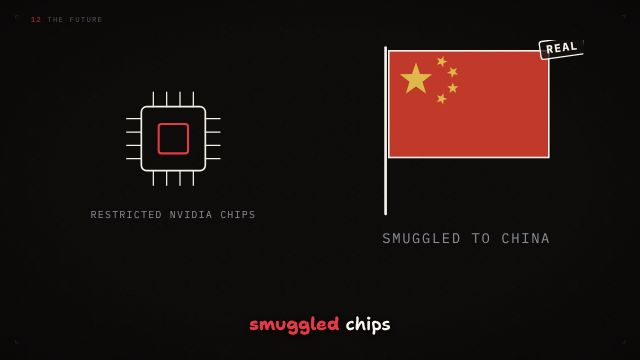
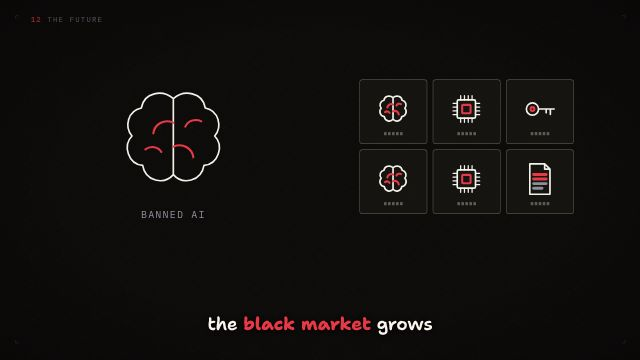
ai-ban: stamp sits inside the panel; QA sheets
Claude-Session: https://claude.ai/code/session_01S5iaG25Nnj58d8uMFCEvnk

diff --git a/engine/src/ds/layouts.tsx b/engine/src/ds/layouts.tsx
@@ -38,7 +38,7 @@ const Stamp: React.FC<{ t: string; at?: string | number }> = ({ t, at }) => {
   const p = f <= 0 ? 1 : prog(frame, f, 7);
   const c = t.toLowerCase() === 'real' ? '#FAF6EE' : color.red;
   return (
-    <div style={{ position: 'absolute', right: -6, top: -6, opacity: p, transform: `rotate(-8deg) scale(${1.5 - 0.5 * p})`, transformOrigin: 'center',
+    <div style={{ position: 'absolute', right: 30, top: 12, opacity: p, transform: `rotate(-8deg) scale(${1.5 - 0.5 * p})`, transformOrigin: 'center',
       border: `6px solid ${c}`, borderRadius: 12, padding: '6px 22px', ...mono(50, c), fontWeight: 800, letterSpacing: 4, textTransform: 'uppercase', background: 'rgba(20,18,16,0.75)', whiteSpace: 'nowrap' }}>{t}</div>
   );
 };
